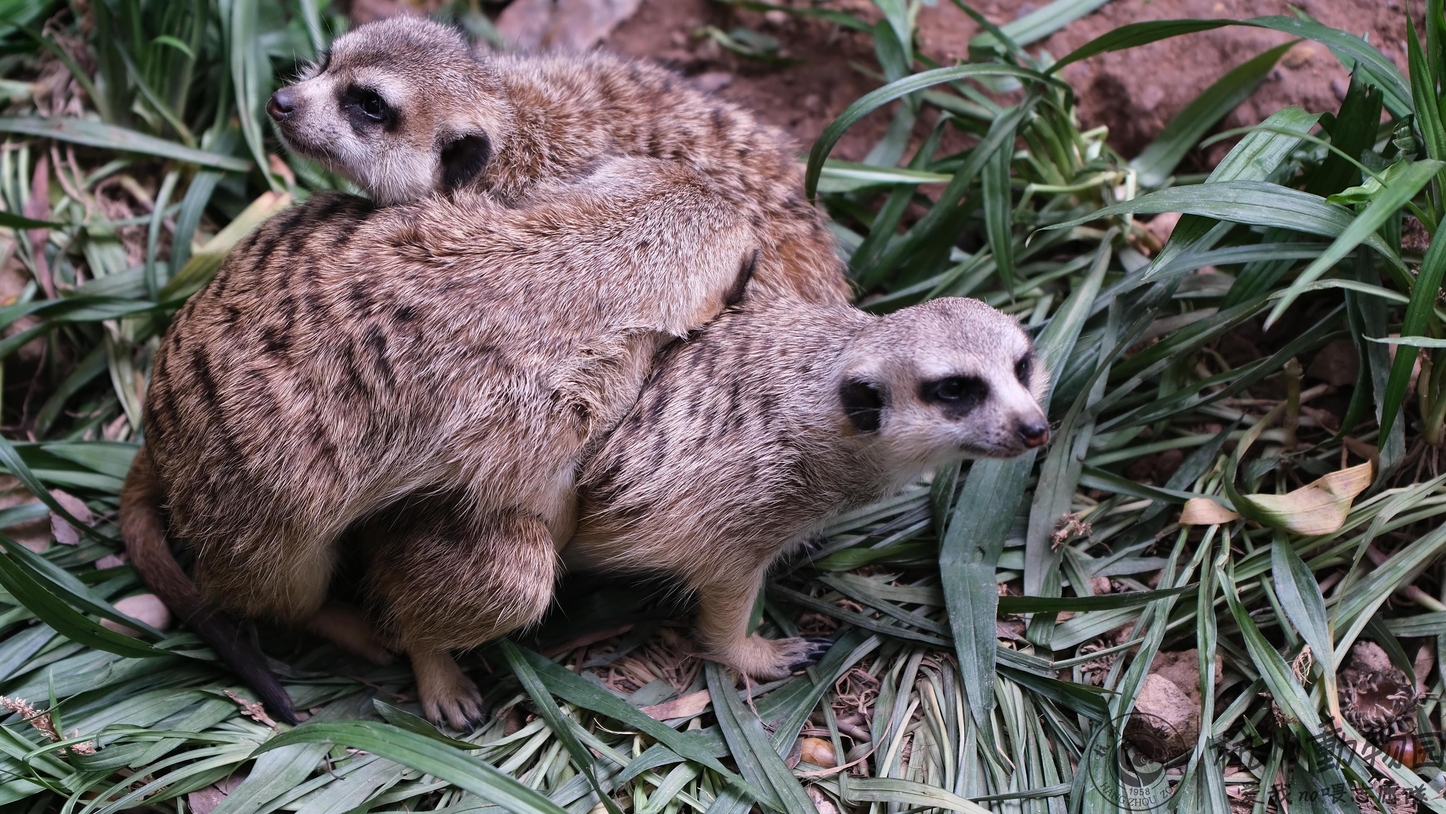
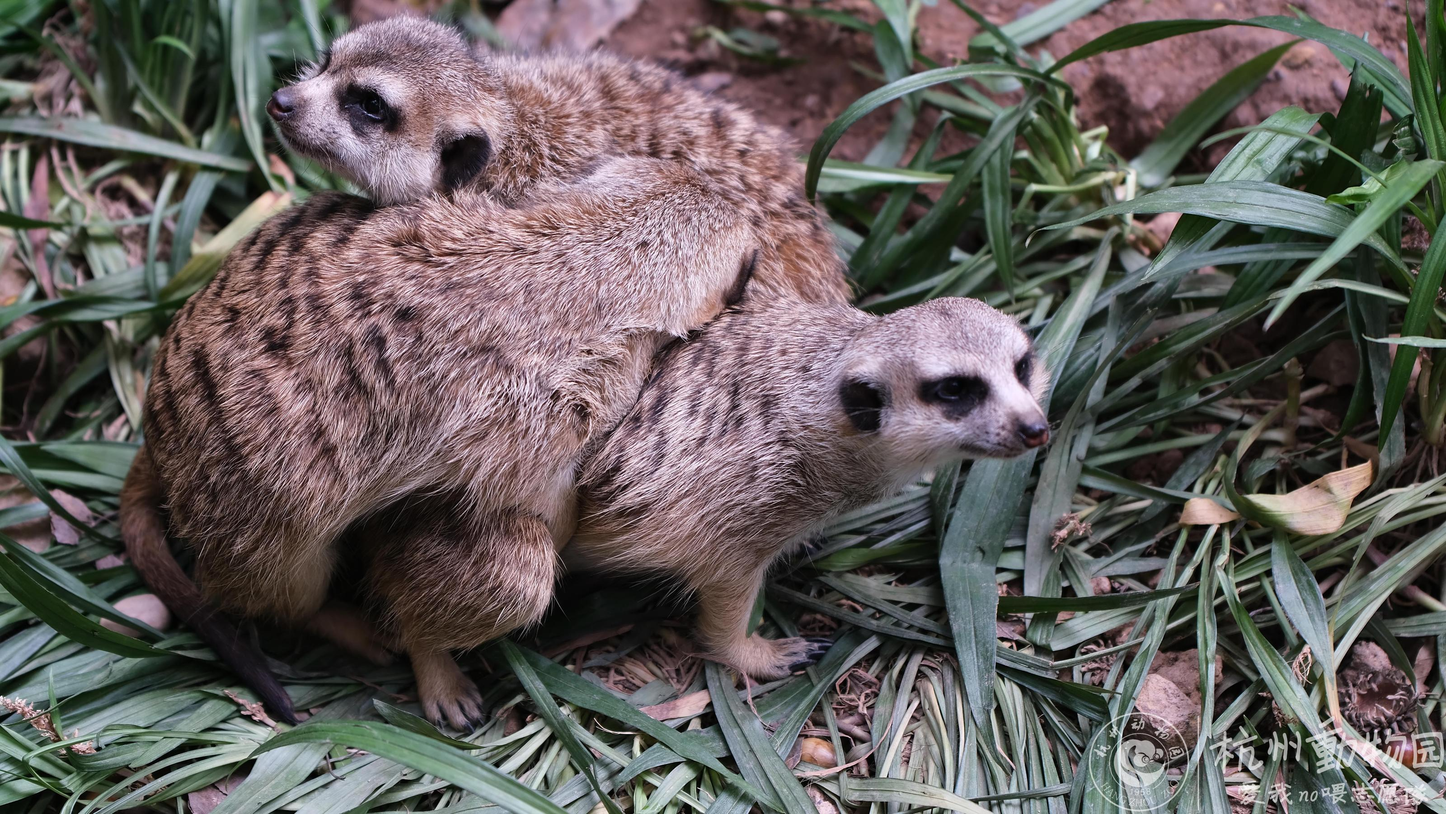
type: update level: normal comment: set threshold_lighting 120

Changed region(s): [[0.75, 0.8706, 1.0, 1.0]]

diff --git a/tools.py b/tools.py
@@ -44,7 +44,6 @@ class HelloPhoto(object):
     file_template_home = os.path.join(_path_templates, 'home.html')
     # 发布站点地址
     site = 'Zoo-HZ-Media-Volunteers'
-    file_lighting = os.path.join(_path_templates, 'lighting.info')
 
     def __init__(self):
 
@@ -64,13 +63,10 @@ class HelloPhoto(object):
             with open(self.file_rendered, 'w') as f:
                 json.dump([], f)
 
-        if not os.path.exists(self.file_lighting):
-            with open(self.file_lighting, 'w') as f:
-                json.dump({}, f)
         self.path_ink_white = os.path.join(_path_files, 'white.png')
         self.path_ink_black = os.path.join(_path_files, 'black.png')
         self.path_ink = self.path_ink_white
-        self.lighting = {}
+        self.threshold_lighting = 120
 
     @classmethod
     def load_rendered(cls):
@@ -278,7 +274,7 @@ class HelloPhoto(object):
 
                 print(lighting)
                 # use black
-                if lighting >= 111:
+                if lighting >= self.threshold_lighting:
                     print('use black')
                     watermark = Image.open(self.path_ink_black)
                     watermark = watermark.resize((watermark_width, watermark_high),
@@ -610,4 +606,5 @@ if __name__ == '__main__':
     hp = HelloPhoto()
     hp.position_ink = 'bottom right'
     hp.ratio_ink = 800
-    hp.render_all(do_transfer_jpg_to_webp=False, do_render_md=False, do_render_home=False)
+    hp.render_all(do_transfer_jpg_to_webp=False, do_render_home=False)
+    # hp.just_render_md()

diff --git a/mds/webp-resize-2000/201909/20190911LinSiDan.md b/mds/webp-resize-2000/201909/20190911LinSiDan.md
@@ -89,7 +89,7 @@ layout: default
 ##### size: 0.83M, 白颊长臂猿_雌、幼 (3).jpg
 ![白颊长臂猿_雌、幼 (3).jpg](/Zoo-HZ-Media-Volunteers/static/images/webp-resize-2000/201909/20190911LinSiDan/白颊长臂猿_雌、幼 (3).jpg)
 
-##### size: 1.51M, 白颊长臂猿_雌、幼.jpg
+##### size: 1.52M, 白颊长臂猿_雌、幼.jpg
 ![白颊长臂猿_雌、幼.jpg](/Zoo-HZ-Media-Volunteers/static/images/webp-resize-2000/201909/20190911LinSiDan/白颊长臂猿_雌、幼.jpg)
 
 ##### size: 1.0M, 秃鹫.jpg
@@ -110,7 +110,7 @@ layout: default
 ##### size: 1.04M, 美洲豹 (3).jpg
 ![美洲豹 (3).jpg](/Zoo-HZ-Media-Volunteers/static/images/webp-resize-2000/201909/20190911LinSiDan/美洲豹 (3).jpg)
 
-##### size: 0.93M, 美洲豹.jpg
+##### size: 0.94M, 美洲豹.jpg
 ![美洲豹.jpg](/Zoo-HZ-Media-Volunteers/static/images/webp-resize-2000/201909/20190911LinSiDan/美洲豹.jpg)
 
 ##### size: 1.69M, 老虎.jpg
@@ -167,7 +167,7 @@ layout: default
 ##### size: 0.88M, 金刚鹦鹉 (11).jpg
 ![金刚鹦鹉 (11).jpg](/Zoo-HZ-Media-Volunteers/static/images/webp-resize-2000/201909/20190911LinSiDan/金刚鹦鹉 (11).jpg)
 
-##### size: 0.6M, 金刚鹦鹉 (12).jpg
+##### size: 0.61M, 金刚鹦鹉 (12).jpg
 ![金刚鹦鹉 (12).jpg](/Zoo-HZ-Media-Volunteers/static/images/webp-resize-2000/201909/20190911LinSiDan/金刚鹦鹉 (12).jpg)
 
 ##### size: 0.98M, 金刚鹦鹉 (2).jpg

diff --git a/mds/webp-resize-2000/202007/20200706ZouBinBin.md b/mds/webp-resize-2000/202007/20200706ZouBinBin.md
@@ -38,7 +38,7 @@ layout: default
 ##### size: 0.76M, 白黇鹿
 ![20200707 白黇鹿 .jpg](/Zoo-HZ-Media-Volunteers/static/images/webp-resize-2000/202007/20200706ZouBinBin/20200707 白黇鹿 .jpg)
 
-##### size: 0.87M, 白黇鹿 舔舐
+##### size: 0.88M, 白黇鹿 舔舐
 ![20200707 白黇鹿 舔舐.jpg](/Zoo-HZ-Media-Volunteers/static/images/webp-resize-2000/202007/20200706ZouBinBin/20200707 白黇鹿 舔舐.jpg)
 
 ##### size: 0.7M, 白黇鹿 鹿宝宝第一次站起来

diff --git a/mds/webp-resize-2000/202004/20200409DuLiChao.md b/mds/webp-resize-2000/202004/20200409DuLiChao.md
@@ -23,7 +23,7 @@ layout: default
 ##### size: 0.65M, DSC08636.jpg
 ![DSC08636.jpg](/Zoo-HZ-Media-Volunteers/static/images/webp-resize-2000/202004/20200409DuLiChao/DSC08636.jpg)
 
-##### size: 0.85M, DSC08642.jpg
+##### size: 0.86M, DSC08642.jpg
 ![DSC08642.jpg](/Zoo-HZ-Media-Volunteers/static/images/webp-resize-2000/202004/20200409DuLiChao/DSC08642.jpg)
 
 ##### size: 0.85M, DSC08663.jpg

diff --git a/mds/webp-resize-2000/202105/20210502GaoWei.md b/mds/webp-resize-2000/202105/20210502GaoWei.md
@@ -56,7 +56,7 @@ layout: default
 ##### size: 0.74M, 
 ![DSC03482.JPG](/Zoo-HZ-Media-Volunteers/static/images/webp-resize-2000/202105/20210502GaoWei/DSC03482.JPG)
 
-##### size: 0.74M, 小熊猫
+##### size: 0.75M, 小熊猫
 ![DSC03487.JPG](/Zoo-HZ-Media-Volunteers/static/images/webp-resize-2000/202105/20210502GaoWei/DSC03487.JPG)
 
 ##### size: 0.54M, 小熊猫(上班摸鱼)

diff --git a/mds/webp-resize-2000/202009/20200922ZouBinBin.md b/mds/webp-resize-2000/202009/20200922ZouBinBin.md
@@ -68,7 +68,7 @@ layout: default
 ##### size: 0.56M, DSCF3638.JPG
 ![DSCF3638.JPG](/Zoo-HZ-Media-Volunteers/static/images/webp-resize-2000/202009/20200922ZouBinBin/DSCF3638.JPG)
 
-##### size: 0.4M, 猕猴
+##### size: 0.41M, 猕猴
 ![DSCF3643.JPG](/Zoo-HZ-Media-Volunteers/static/images/webp-resize-2000/202009/20200922ZouBinBin/DSCF3643.JPG)
 
 ##### size: 0.35M, 猕猴
